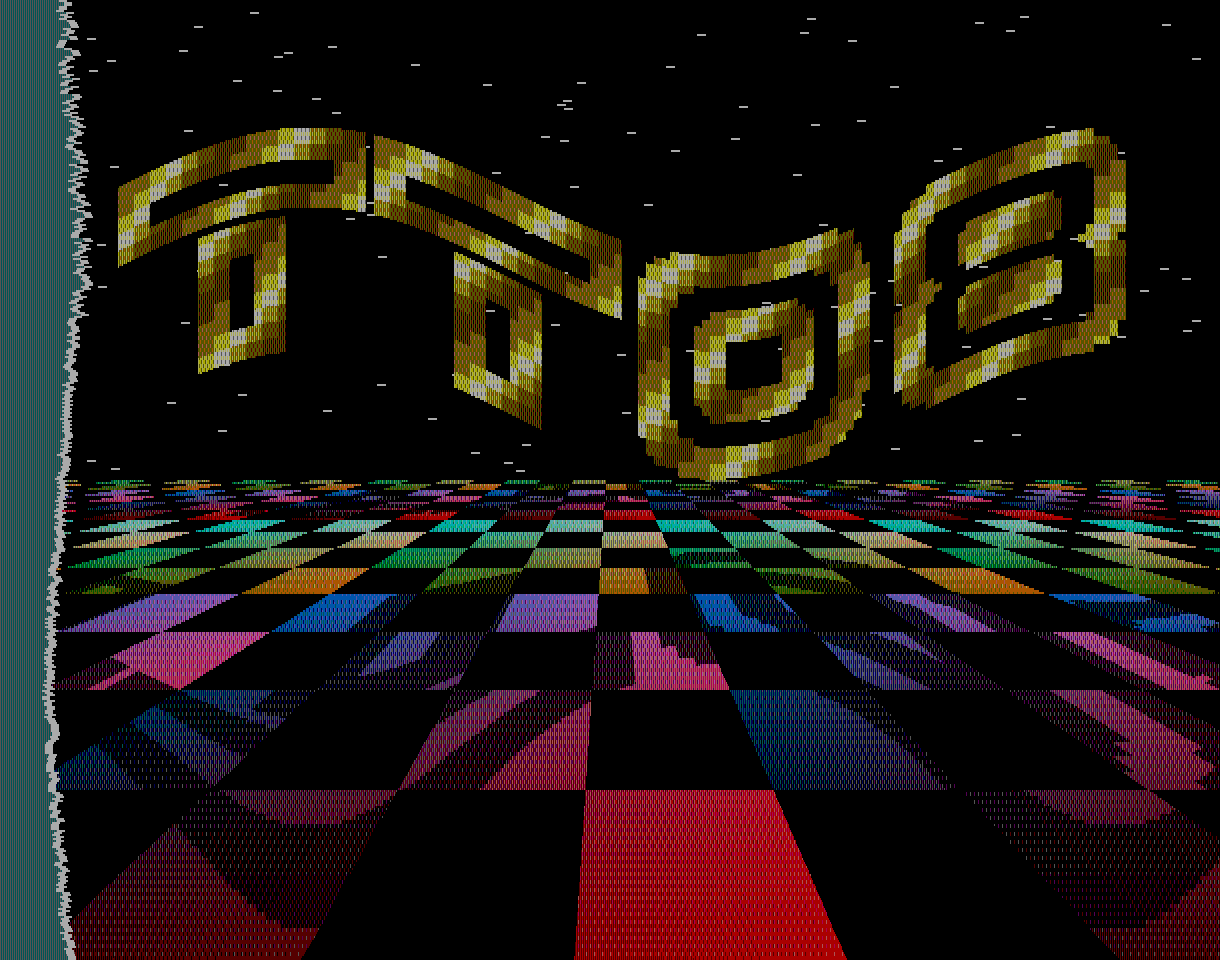
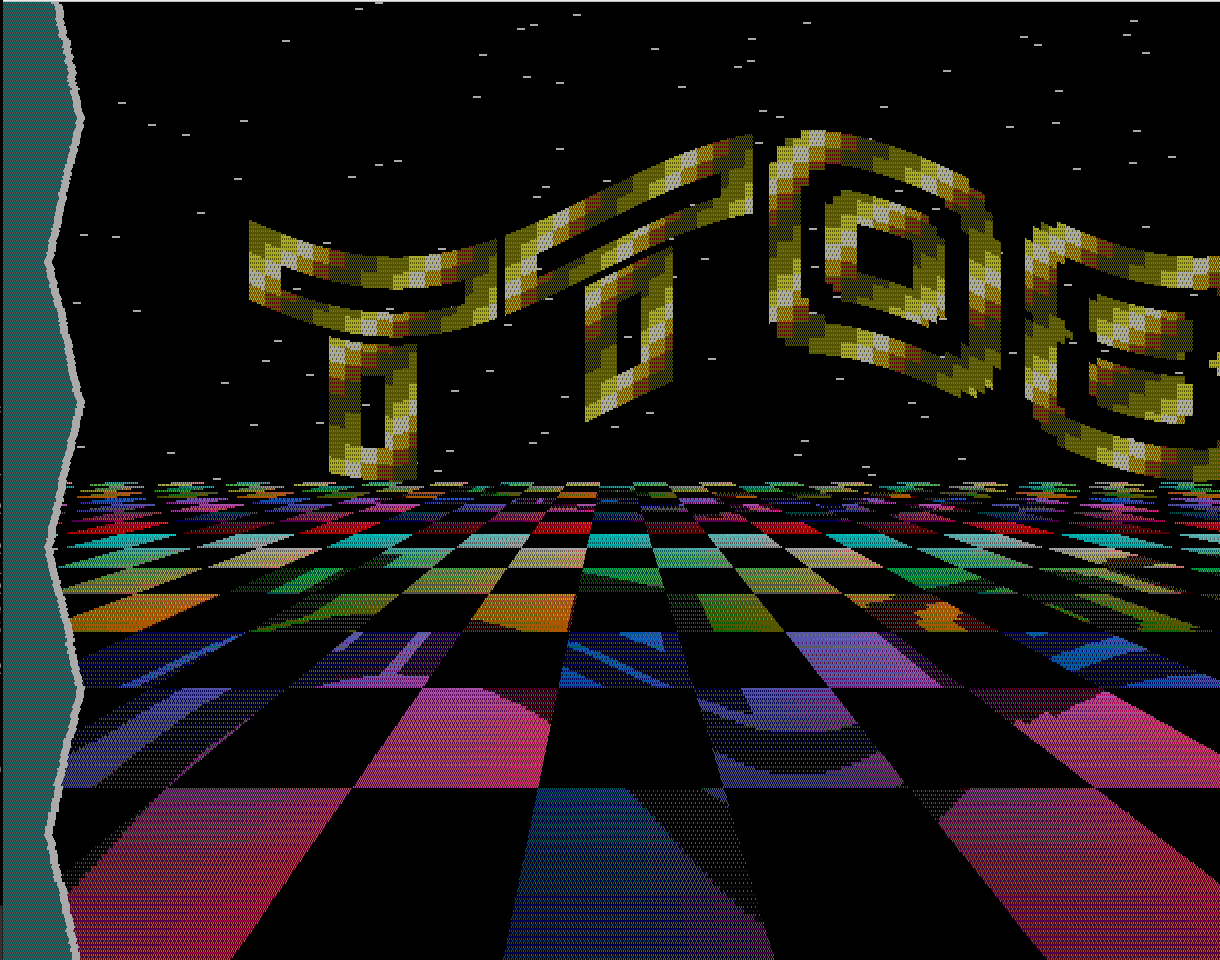
cleanup, fix dithering, emulate audio harmonic distortion

diff --git a/verilator/audiotrack_tb.cpp b/verilator/audiotrack_tb.cpp
@@ -17,7 +17,16 @@ void audio_callback(void* userdata, uint8_t* stream, int len) {
     // sigma-delta modulator
     top->rootp->audiotrack__DOT__sample_div = 1023;
     top->clk48 = 0; top->eval(); top->clk48 = 1; top->eval();
-    stream16[i] = top->audio_sample;
+    uint16_t s = top->audio_sample;
+    if (s > 0x8000) {
+      // emulate harmonic distortion from a ~1ns slower rise time than fall
+      // time @ 48MHz; what this means is the upper half of the range gets
+      // "longer" downward pulses than the lower half gets upward pulses.
+      // this is exaggerating the effect and I don't actually hear any
+      // difference
+      s += (s - 0x8000) >> 4;
+    }
+    stream16[i] = s;
   }
   samples_generated += len;
 }

diff --git a/docs/info.md b/docs/info.md
@@ -17,10 +17,10 @@ It's a standalone VGA+sound demo that fits in two tiles; you'll just have to
 see.
 
 This was developed with a 48MHz clock, so it's in a funky VGA video mode -- it's
-standard 640x480@60Hz VGA timing, but with 1220 horizontal pixels instead of
-640.  All graphics are dithered down to RGB222 with a Bayer matrix which
-alternates each frame. Because of the dithering and the weird resolution, it
-looks best on a real CRT, but any VGA monitor ought to work.
+standard 640x480@60Hz VGA timing and 4:3 aspect ratio, but with 1220 horizontal
+pixels instead of 640.  All graphics are dithered down to RGB222 with a Bayer
+matrix which alternates each frame. Because of the dithering and the weird
+resolution, it looks best on a real CRT, but any VGA monitor ought to work.
 
 Sound is generated using a 16-bit sigma-delta DAC on io7 from an internal
 3-channel synth (triangle, noise, and square waves).
@@ -41,6 +41,3 @@ Follows the [democompo hardware rules](https://tinytapeout.com/competitions/demo
 1-bit sound on io[7], compatible with [Tiny Tapeout Audio
 Pmod](https://github.com/MichaelBell/tt-audio-pmod), or any basic ~20kHz RC filter
 on io7 to an amplifier will work.
-
-This audio is not going to sound very good on the built-in piezo speaker on the
-Pmod, though, so an external speaker is highly recommended.
